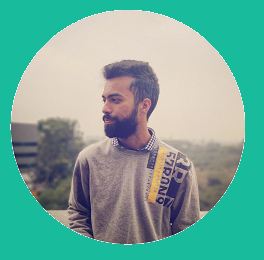
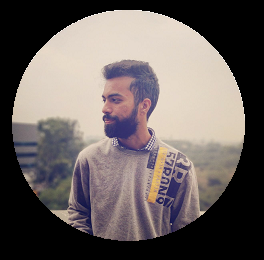
updated code for new theme

diff --git a/css/freelancer.min.css b/css/freelancer.min.css
@@ -1,1 +1,1 @@
-body{font-family:Lato}h1,h2,h3,h4,h5,h6{font-weight:700;font-family:Montserrat}hr.star-dark,hr.star-light{max-width:15rem;padding:0;text-align:center;border:none;border-top:solid .25rem;margin-top:2.5rem;margin-bottom:2.5rem}hr.star-dark:after,hr.star-light:after{position:relative;top:-.8em;display:inline-block;padding:0 .25em;content:'\f005';font-family:FontAwesome;font-size:2em}hr.star-light{border-color:#fff}hr.star-light:after{color:#fff;background-color:#18bc9c}hr.star-dark{border-color:#2c3e50}hr.star-dark:after{color:#2c3e50;background-color:#fff}section{padding:6rem 0}section h2{font-size:2.25rem;line-height:2rem}@media (min-width:992px){section h2{font-size:3rem;line-height:2.5rem}}.btn-xl{padding:1rem 1.75rem;font-size:1.25rem}.btn-social{width:3.25rem;height:3.25rem;font-size:1.25rem;line-height:2rem}.scroll-to-top{z-index:1042;right:1rem;bottom:1rem;display:none}.scroll-to-top a{width:3.5rem;height:3.5rem;background-color:rgba(33,37,41,.5);line-height:3.1rem}#mainNav{padding-top:1rem;padding-bottom:1rem;font-weight:700;font-family:Montserrat}#mainNav .navbar-brand{color:#fff}#mainNav .navbar-nav{margin-top:1rem;letter-spacing:.0625rem}#mainNav .navbar-nav li.nav-item a.nav-link{color:#fff}#mainNav .navbar-nav li.nav-item a.nav-link:hover{color:#18bc9c}#mainNav .navbar-nav li.nav-item a.nav-link:active,#mainNav .navbar-nav li.nav-item a.nav-link:focus{color:#fff}#mainNav .navbar-nav li.nav-item a.nav-link.active{color:#18bc9c}#mainNav .navbar-toggler{font-size:80%;padding:.8rem}@media (min-width:992px){#mainNav{padding-top:1.5rem;padding-bottom:1.5rem;-webkit-transition:padding-top .3s,padding-bottom .3s;-moz-transition:padding-top .3s,padding-bottom .3s;transition:padding-top .3s,padding-bottom .3s}#mainNav .navbar-brand{font-size:2em;-webkit-transition:font-size .3s;-moz-transition:font-size .3s;transition:font-size .3s}#mainNav .navbar-nav{margin-top:0}#mainNav .navbar-nav>li.nav-item>a.nav-link.active{color:#fff;background:#18bc9c}#mainNav .navbar-nav>li.nav-item>a.nav-link.active:active,#mainNav .navbar-nav>li.nav-item>a.nav-link.active:focus,#mainNav .navbar-nav>li.nav-item>a.nav-link.active:hover{color:#fff;background:#18bc9c}#mainNav.navbar-shrink{padding-top:.5rem;padding-bottom:.5rem}#mainNav.navbar-shrink .navbar-brand{font-size:1.5em}}header.masthead{padding-top:calc(6rem + 72px);padding-bottom:6rem}header.masthead h1{font-size:3rem;line-height:3rem}header.masthead h2{font-size:1.3rem;font-family:Lato}@media (min-width:992px){header.masthead{padding-top:calc(6rem + 106px);padding-bottom:6rem}header.masthead h1{font-size:4.75em;line-height:4rem}header.masthead h2{font-size:1.75em}}.portfolio{margin-bottom:-15px}.portfolio .portfolio-item{position:relative;display:block;max-width:25rem;margin-bottom:15px}.portfolio .portfolio-item .portfolio-item-caption{-webkit-transition:all ease .5s;-moz-transition:all ease .5s;transition:all ease .5s;opacity:0;background-color:rgba(24,188,156,.9)}.portfolio .portfolio-item .portfolio-item-caption:hover{opacity:1}.portfolio .portfolio-item .portfolio-item-caption .portfolio-item-caption-content{font-size:1.5rem}@media (min-width:576px){.portfolio{margin-bottom:-30px}.portfolio .portfolio-item{margin-bottom:30px}}.portfolio-modal .portfolio-modal-dialog{padding:3rem 1rem;min-height:calc(100vh - 2rem);margin:1rem calc(1rem - 8px);position:relative;z-index:2;-moz-box-shadow:0 0 3rem 1rem rgba(0,0,0,.5);-webkit-box-shadow:0 0 3rem 1rem rgba(0,0,0,.5);box-shadow:0 0 3rem 1rem rgba(0,0,0,.5)}.portfolio-modal .portfolio-modal-dialog .close-button{position:absolute;top:2rem;right:2rem}.portfolio-modal .portfolio-modal-dialog .close-button i{line-height:38px}.portfolio-modal .portfolio-modal-dialog h2{font-size:2rem}@media (min-width:768px){.portfolio-modal .portfolio-modal-dialog{min-height:100vh;padding:5rem;margin:3rem calc(3rem - 8px)}.portfolio-modal .portfolio-modal-dialog h2{font-size:3rem}}.floating-label-form-group{position:relative;border-bottom:1px solid #e9ecef}.floating-label-form-group input,.floating-label-form-group textarea{font-size:1.5em;position:relative;z-index:1;padding-right:0;padding-left:0;resize:none;border:none;border-radius:0;background:0 0;box-shadow:none!important}.floating-label-form-group label{font-size:.85em;line-height:1.764705882em;position:relative;z-index:0;top:2em;display:block;margin:0;-webkit-transition:top .3s ease,opacity .3s ease;-moz-transition:top .3s ease,opacity .3s ease;-ms-transition:top .3s ease,opacity .3s ease;transition:top .3s ease,opacity .3s ease;vertical-align:middle;vertical-align:baseline;opacity:0}.floating-label-form-group:not(:first-child){padding-left:14px;border-left:1px solid #e9ecef}.floating-label-form-group-with-value label{top:0;opacity:1}.floating-label-form-group-with-focus label{color:#18bc9c}form .row:first-child .floating-label-form-group{border-top:1px solid #e9ecef}.footer{padding-top:5rem;padding-bottom:5rem;background-color:#2c3e50;color:#fff}.copyright{background-color:#1a252f}a{color:#18bc9c}a:active,a:focus,a:hover{color:#128f76}.btn{border-width:2px}.bg-primary{background-color:#18bc9c!important}.bg-secondary{background-color:#2c3e50!important}.text-primary{color:#18bc9c!important}.text-secondary{color:#2c3e50!important}.btn-primary{background-color:#18bc9c;border-color:#18bc9c}.btn-primary:active,.btn-primary:focus,.btn-primary:hover{background-color:#128f76;border-color:#128f76}.btn-secondary{background-color:#2c3e50;border-color:#2c3e50}.btn-secondary:active,.btn-secondary:focus,.btn-secondary:hover{background-color:#1a252f;border-color:#1a252f}
+body{font-family:Lato}h1,h2,h3,h4,h5,h6{font-weight:700;font-family:Montserrat}hr.star-dark,hr.star-light{max-width:15rem;padding:0;text-align:center;border:none;border-top:solid .25rem;margin-top:2.5rem;margin-bottom:2.5rem}hr.star-dark:after,hr.star-light:after{position:relative;top:-.8em;display:inline-block;padding:0 .25em;content:'\f005';font-family:FontAwesome;font-size:2em}hr.star-light{border-color:#fff}hr.star-light:after{color:#fff;background-color:#18bc9c}hr.star-dark{border-color:#2c3e50}hr.star-dark:after{color:#2c3e50;background-color:#fff}section{padding:6rem 0}section h2{font-size:2.25rem;line-height:2rem}@media (min-width:992px){section h2{font-size:3rem;line-height:2.5rem}}.btn-xl{padding:1rem 1.75rem;font-size:1.25rem}.btn-social{width:3.25rem;height:3.25rem;font-size:1.25rem;line-height:2rem}.scroll-to-top{z-index:1042;right:1rem;bottom:1rem;display:none}.scroll-to-top a{width:3.5rem;height:3.5rem;background-color:rgba(33,37,41,.5);line-height:3.1rem}#mainNav{padding-top:1rem;padding-bottom:1rem;font-weight:700;font-family:Montserrat}#mainNav .navbar-brand{color:deepskyblue}#mainNav .navbar-nav{margin-top:1rem;letter-spacing:.0625rem}#mainNav .navbar-nav li.nav-item a.nav-link{color:#fff}#mainNav .navbar-nav li.nav-item a.nav-link:hover{color:#18bc9c}#mainNav .navbar-nav li.nav-item a.nav-link:active,#mainNav .navbar-nav li.nav-item a.nav-link:focus{color:#fff}#mainNav .navbar-nav li.nav-item a.nav-link.active{color:#18bc9c}#mainNav .navbar-toggler{font-size:80%;padding:.8rem}@media (min-width:992px){#mainNav{padding-top:1.5rem;padding-bottom:1.5rem;-webkit-transition:padding-top .3s,padding-bottom .3s;-moz-transition:padding-top .3s,padding-bottom .3s;transition:padding-top .3s,padding-bottom .3s}#mainNav .navbar-brand{font-size:2em;-webkit-transition:font-size .3s;-moz-transition:font-size .3s;transition:font-size .3s}#mainNav .navbar-nav{margin-top:0}#mainNav .navbar-nav>li.nav-item>a.nav-link.active{color:#fff;background:#18bc9c}#mainNav .navbar-nav>li.nav-item>a.nav-link.active:active,#mainNav .navbar-nav>li.nav-item>a.nav-link.active:focus,#mainNav .navbar-nav>li.nav-item>a.nav-link.active:hover{color:#fff;background:#18bc9c}#mainNav.navbar-shrink{padding-top:.5rem;padding-bottom:.5rem}#mainNav.navbar-shrink .navbar-brand{font-size:1.5em}}header.masthead{padding-top:calc(6rem + 72px);padding-bottom:6rem}header.masthead h1{font-size:3rem;line-height:3rem}header.masthead h2{font-size:1.3rem;font-family:Lato}@media (min-width:992px){header.masthead{padding-top:calc(6rem + 106px);padding-bottom:6rem}header.masthead h1{font-size:4.75em;line-height:4rem}header.masthead h2{font-size:1.75em}}.portfolio{margin-bottom:-15px}.portfolio .portfolio-item{position:relative;display:block;max-width:25rem;margin-bottom:15px}.portfolio .portfolio-item .portfolio-item-caption{-webkit-transition:all ease .5s;-moz-transition:all ease .5s;transition:all ease .5s;opacity:0;background-color:rgba(24,188,156,.9)}.portfolio .portfolio-item .portfolio-item-caption:hover{opacity:1}.portfolio .portfolio-item .portfolio-item-caption .portfolio-item-caption-content{font-size:1.5rem}@media (min-width:576px){.portfolio{margin-bottom:-30px}.portfolio .portfolio-item{margin-bottom:30px}}.portfolio-modal .portfolio-modal-dialog{padding:3rem 1rem;min-height:calc(100vh - 2rem);margin:1rem calc(1rem - 8px);position:relative;z-index:2;-moz-box-shadow:0 0 3rem 1rem rgba(0,0,0,.5);-webkit-box-shadow:0 0 3rem 1rem rgba(0,0,0,.5);box-shadow:0 0 3rem 1rem rgba(0,0,0,.5)}.portfolio-modal .portfolio-modal-dialog .close-button{position:absolute;top:2rem;right:2rem}.portfolio-modal .portfolio-modal-dialog .close-button i{line-height:38px}.portfolio-modal .portfolio-modal-dialog h2{font-size:2rem}@media (min-width:768px){.portfolio-modal .portfolio-modal-dialog{min-height:100vh;padding:5rem;margin:3rem calc(3rem - 8px)}.portfolio-modal .portfolio-modal-dialog h2{font-size:3rem}}.floating-label-form-group{position:relative;border-bottom:1px solid #e9ecef}.floating-label-form-group input,.floating-label-form-group textarea{font-size:1.5em;position:relative;z-index:1;padding-right:0;padding-left:0;resize:none;border:none;border-radius:0;background:0 0;box-shadow:none!important}.floating-label-form-group label{font-size:.85em;line-height:1.764705882em;position:relative;z-index:0;top:2em;display:block;margin:0;-webkit-transition:top .3s ease,opacity .3s ease;-moz-transition:top .3s ease,opacity .3s ease;-ms-transition:top .3s ease,opacity .3s ease;transition:top .3s ease,opacity .3s ease;vertical-align:middle;vertical-align:baseline;opacity:0}.floating-label-form-group:not(:first-child){padding-left:14px;border-left:1px solid #e9ecef}.floating-label-form-group-with-value label{top:0;opacity:1}.floating-label-form-group-with-focus label{color:#18bc9c}form .row:first-child .floating-label-form-group{border-top:1px solid #e9ecef}.footer{padding-top:5rem;padding-bottom:5rem;background-color:#2c3e50;color:#fff}.copyright{background-color:#1a252f}a{color:#18bc9c}a:active,a:focus,a:hover{color:#128f76}.btn{border-width:2px}.bg-primary{background-color:#18bc9c!important}.bg-secondary{background-color:#2c3e50!important}.text-primary{color:#18bc9c!important}.text-secondary{color:#2c3e50!important}.btn-primary{background-color:#18bc9c;border-color:#18bc9c}.btn-primary:active,.btn-primary:focus,.btn-primary:hover{background-color:#128f76;border-color:#128f76}.btn-secondary{background-color:#2c3e50;border-color:#2c3e50}.btn-secondary:active,.btn-secondary:focus,.btn-secondary:hover{background-color:#1a252f;border-color:#1a252f}

diff --git a/css/freelancer.css b/css/freelancer.css
@@ -102,7 +102,8 @@ section h2 {
 }
 
 #mainNav .navbar-brand {
-  color: #fff;
+  color: white;
+  text-shadow: 2px 2px 5px goldenrod;
 }
 
 #mainNav .navbar-nav {
@@ -344,11 +345,12 @@ a:focus, a:hover, a:active {
 }
 
 .bg-primary {
-  background-color: #18BC9C !important;
+  /* background:/linear-gradient(to right, #b71c1c 0%, #040405 60%)!important; */
+  background: black!important;
 }
 
 .bg-secondary {
-  background-color: #2C3E50 !important;
+  background:linear-gradient(to left, #0090e7 0%, #040405 60%)!important;
 }
 
 .text-primary {
@@ -377,4 +379,44 @@ a:focus, a:hover, a:active {
 .btn-secondary:hover, .btn-secondary:focus, .btn-secondary:active {
   background-color: #1a252f;
   border-color: #1a252f;
+}
+
+.heading-main{
+  text-shadow: 0px 5px 15px #0090e7;
+}
+
+.ripple {
+  margin: auto;
+  /* margin-top: 15rem; */
+  /* background-color: teal; */
+  width: 15rem;
+  height: 15rem;
+  border-radius: 80%;
+  /* position:relative; */
+  animation: ripple 3s linear infinite;
+}
+.ripple::before,
+/* .ripple::after{
+  content:"";
+  position:absolute;
+  top:0;
+  left:0;
+  right:0;
+  bottom:0;
+  border-radius: 50%;
+  animation: ripple 3s linear infinite 1s;
+} */
+.ripple::after {
+  animation: ripple 3s linear infinite 2s;
+}
+@keyframes ripple {
+  0% {
+    box-shadow: 0 0 0 0rem rgba(17,73,123, 1);
+  }
+  /* 50% {
+    box-shadow: 0 0 0 5rem rgba(0,158,228, 0.8);
+  } */
+  100% {
+    box-shadow: 0 0 0 8rem rgba(17,73,123, 0.2);
+  }
 }

diff --git a/index.html b/index.html
@@ -28,7 +28,7 @@
 	type="text/css">
 
 <!-- Custom styles for this template -->
-<link href="css/freelancer.min.css" rel="stylesheet">
+<link href="css/freelancer.css" rel="stylesheet">
 
 </head>
 
@@ -69,9 +69,9 @@
 	<!-- Header -->
 	<header class="masthead bg-primary text-white text-center">
 		<div class="container">
-			<img class="img-fluid mb-5 d-block mx-auto" src="img/profile.png"
+			<img class="img-fluid mb-5 d-block mx-auto ripple" src="img/circle-cropped.png"
 				alt="">
-			<h1 class="text-uppercase mb-0">Software Engineer</h1>
+			<h1 class="text-uppercase mb-0 heading-main">Software Engineer</h1>
 			<hr class="star-light">
 			<h2 class="font-weight-light mb-0">Web - Angular - Java - AWS -
 				IOT</h2>
@@ -120,6 +120,7 @@
 						</div> <img class="img-fluid" src="img/portfolio/iot.png" alt="">
 					</a>
 				</div>
+				
 			</div>
 
 			<!-- <div class="row"></div> -->
@@ -180,6 +181,7 @@
 					<img class="img-fluid" src="img/portfolio/ci-cd.png" title="SQL Authentication For ActiveMQ" alt="SQL Authentication For ActiveMQ">
 				</a>
 				</div>
+				
 			</div>
 
 		</div>
